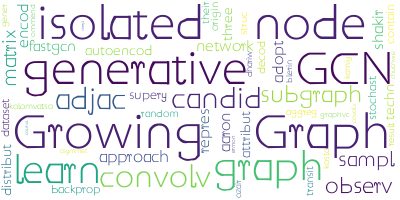
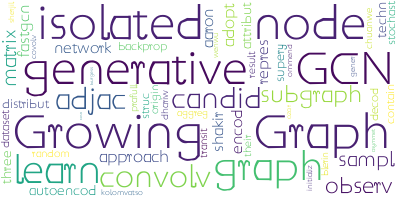
add newest reading

diff --git a/groupmeeting.md b/groupmeeting.md
@@ -6,6 +6,26 @@ title: Group Meeting List
 
 # 2019 spring semester
 
+---
+
+- **Date:** 2019.04.22
+
+- **Reporter:** Zhang Zhang
+
+- **Title:** Learning Discrete Structures for Graph Neural Networks
+
+
+- **Keywords:**
+<br>
+<img src="./img/keyword/Learning_Discrete_Structures_for_Graph_Neural_Networks.txt.png" alt="">
+
+<p style="color:#eee;">(wanna know how we generate this word cloud? you can visit this <a href="https://github.com/3riccc/wordcloud_for_bnusss">github page</a>)</p>
+
+- **Abstract:** Graph neural networks (GNNs) are a popular class of machine learning models whose major advantage is their ability to incorporate a sparse and discrete dependency structure between data points. Unfortunately, GNNs can only be used when such a graph-structure is available. In practice, however, real-world graphs are often noisy and incomplete or might not be available at all. With this work, we propose to jointly learn the graph structure and the parameters of graph convolutional networks(GCNs) by approximately solving a bilevel program that learns a discrete probability distribution on the edges of the graph. This allows one to apply GCNs not only in scenarios where the given graph is incomplete or corrupted but also in those where a graph is not available. We conduct a series of experiments that analyze the behavior of the proposed method and demonstrate that it outperforms related methods by a significant margin.
+
+
+- **Slide link:** http://210.31.72.204/f/500
+
 
 ---
 
